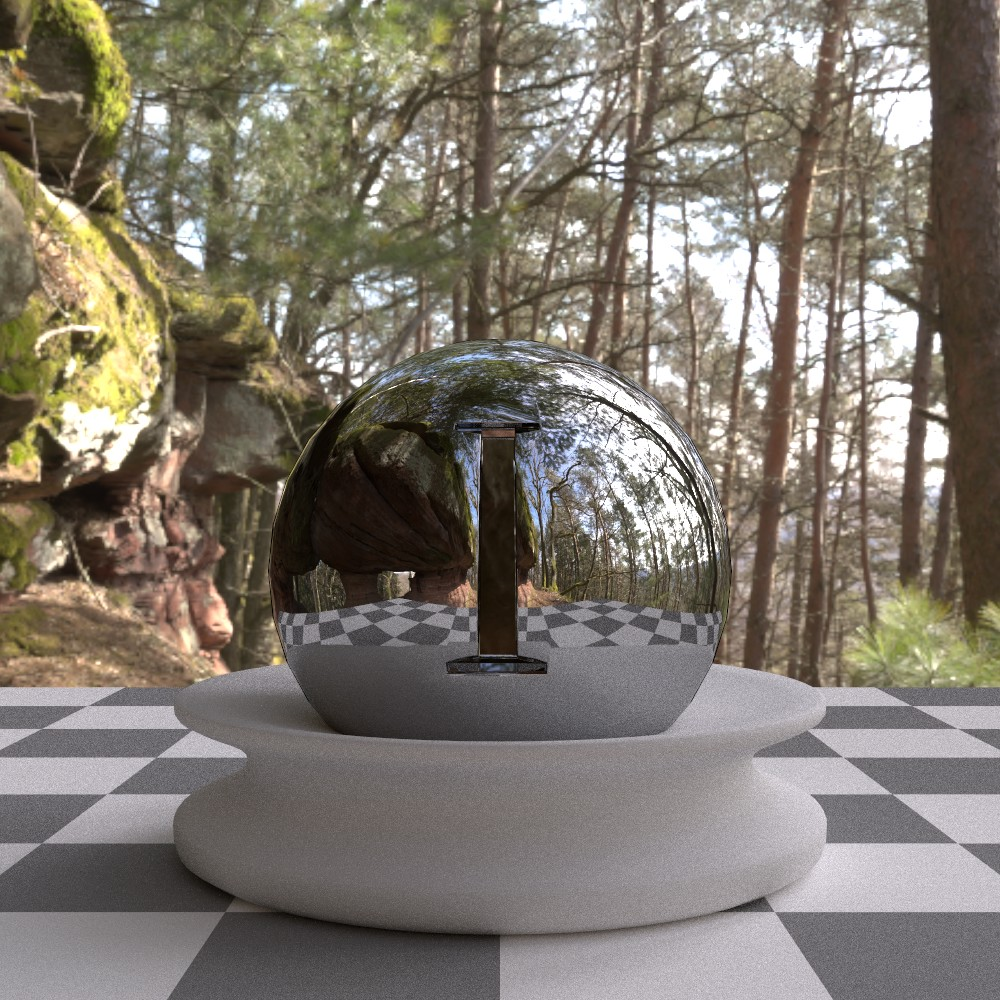
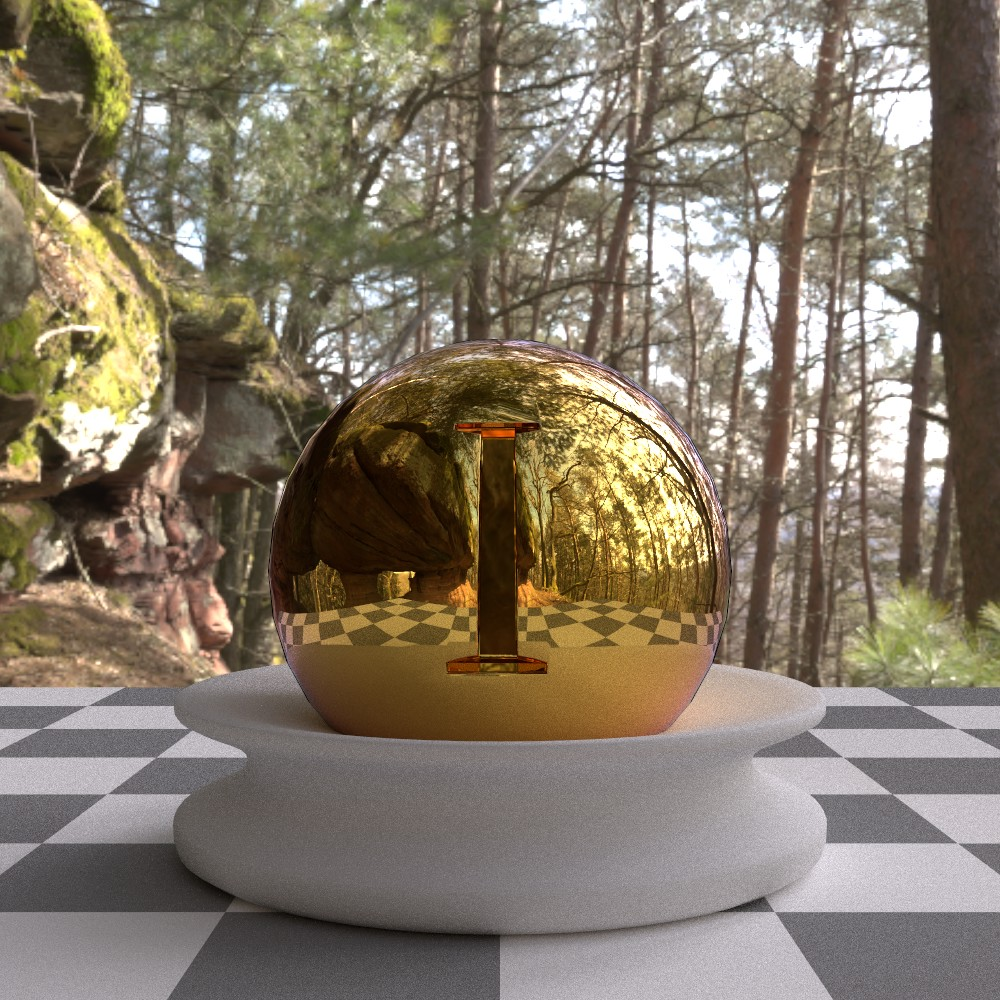
Fixed conductor & thin dielectric

Changed region(s): [[0.279, 0.341, 0.775, 0.744]]

diff --git a/src/backend/runtime/loader/LoaderBSDF.cpp b/src/backend/runtime/loader/LoaderBSDF.cpp
@@ -11,11 +11,13 @@
 
 namespace IG {
 
-constexpr float AIR_IOR            = 1.000277f;
-constexpr float GLASS_IOR          = 1.55f;
-constexpr float RUBBER_IOR         = 1.49f;
-constexpr float ETA_DEFAULT        = 0.63660f;
-constexpr float ABSORPTION_DEFAULT = 2.7834f;
+constexpr float AIR_IOR    = 1.000277f;
+constexpr float GLASS_IOR  = 1.55f;
+constexpr float RUBBER_IOR = 1.49f;
+
+// Gold from https://chris.hindefjord.se/resources/rgb-ior-metals/
+constexpr float ETA_DEFAULT[]        = { 0.18299f, 0.42108f, 1.37340f };
+constexpr float ABSORPTION_DEFAULT[] = { 3.4242f, 2.34590f, 1.77040f };
 
 static void setup_microfacet(const std::shared_ptr<Parser::Object>& bsdf, ShadingTree& tree)
 {
@@ -132,8 +134,8 @@ static void bsdf_conductor(std::ostream& stream, const std::string& name, const 
 {
     tree.beginClosure();
     tree.addColor("specular_reflectance", *bsdf, Vector3f::Ones());
-    tree.addNumber("eta", *bsdf, ETA_DEFAULT);
-    tree.addNumber("k", *bsdf, ABSORPTION_DEFAULT);
+    tree.addColor("eta", *bsdf, Vector3f(ETA_DEFAULT[0], ETA_DEFAULT[1], ETA_DEFAULT[2]));
+    tree.addColor("k", *bsdf, Vector3f(ABSORPTION_DEFAULT[0], ABSORPTION_DEFAULT[1], ABSORPTION_DEFAULT[2]));
 
     stream << tree.pullHeader()
            << "  let bsdf_" << ShaderUtils::escapeIdentifier(name) << " : BSDFShader = @|_ray, _hit, surf| make_conductor_bsdf(surf, "
@@ -148,8 +150,8 @@ static void bsdf_rough_conductor(std::ostream& stream, const std::string& name, 
 {
     tree.beginClosure();
     tree.addColor("specular_reflectance", *bsdf, Vector3f::Ones());
-    tree.addNumber("eta", *bsdf, ETA_DEFAULT);
-    tree.addNumber("k", *bsdf, ABSORPTION_DEFAULT);
+    tree.addColor("eta", *bsdf, Vector3f(ETA_DEFAULT[0], ETA_DEFAULT[1], ETA_DEFAULT[2]));
+    tree.addColor("k", *bsdf, Vector3f(ABSORPTION_DEFAULT[0], ABSORPTION_DEFAULT[1], ABSORPTION_DEFAULT[2]));
 
     setup_microfacet(bsdf, tree);
     stream << tree.pullHeader()

diff --git a/docs/src/scene/bsdfs.rst b/docs/src/scene/bsdfs.rst
@@ -182,8 +182,8 @@ Smooth conductor (:monosp:`conductor`)
 .. objectparameters::
 
  * - eta, k
-   - |number|
-   - none
+   - |color|
+   - ~ Gold
    - Real and imaginary components of the material's index of refraction.
  * - specular_reflectance
    - |color|
@@ -197,7 +197,7 @@ Smooth conductor (:monosp:`conductor`)
   :width: 90%
   :align: center
   
-  Conductor
+  Gold conductor
 
 .. subfigend::
   :width: 0.6
@@ -211,8 +211,8 @@ Rough conductor (:monosp:`roughconductor`)
 .. objectparameters::
 
  * - eta, k
-   - |number|
-   - none
+   - |color|
+   - ~ Gold
    - Real and imaginary components of the material's index of refraction.
  * - specular_reflectance
    - |color|
@@ -230,7 +230,7 @@ Rough conductor (:monosp:`roughconductor`)
   :width: 90%
   :align: center
   
-  Rough conductor
+  Rough gold conductor
 
 .. subfigend::
   :width: 0.6
@@ -332,7 +332,7 @@ Phong (:monosp:`phong`)
   :width: 0.6
   :label: fig-phong
 
-.. NOTE:: We do not recommend to use this bsdf for new projects as it disregards some PBR principles
+.. NOTE:: It is not recommended to use this bsdf for new projects as it disregards some PBR principles and is only included for legacy purposes.
 
 .. _bsdf-principled:
 
@@ -423,7 +423,7 @@ Blend (:monosp:`blend`)
 
  * - first, second
    - |bsdf|
-   - None
+   - *None*
    - TODO
  * - weight
    - |number|
@@ -451,7 +451,7 @@ Mask (:monosp:`mask`)
 
  * - bsdf
    - |bsdf|
-   - None
+   - *None*
    - TODO
  * - weight
    - |number|
@@ -483,7 +483,7 @@ Cutoff (:monosp:`cutoff`)
 
  * - bsdf
    - |bsdf|
-   - None
+   - *None*
    - TODO
  * - weight
    - |number|
@@ -538,7 +538,7 @@ Normal mapping (:monosp:`normalmap`)
 
  * - bsdf
    - |bsdf|
-   - None
+   - *None*
    - TODO
  * - map
    - |color|
@@ -570,11 +570,11 @@ Bump mapping (:monosp:`bumpmap`)
 
  * - bsdf
    - |bsdf|
-   - None
+   - *None*
    - TODO
  * - map
    - |texture|
-   - None
+   - *None*
    - A grayscale texture used for texture mapping.
  * - strength
    - |number|
@@ -602,7 +602,7 @@ Klems (:monosp:`klems`)
 
  * - filename
    - |string|
-   - None
+   - *None*
    - Path to a valid windows xml specifying a klems bsdf.
  * - base_color
    - |color|
@@ -620,7 +620,7 @@ TensorTree (:monosp:`tensortree`)
 
  * - filename
    - |string|
-   - None
+   - *None*
    - Path to a valid windows xml specifying a tensortree bsdf.
  * - base_color
    - |color|

diff --git a/README.md b/README.md
@@ -32,6 +32,7 @@ Have a look at [CPM](https://github.com/cpm-cmake/CPM.cmake) for more informatio
 
  - imgui <https://github.com/ocornut/imgui>
  - imgui-markdown <https://github.com/juliettef/imgui_markdown>
+ - PExpr <https://github.com/PearCoding/PExpr>
  - pugixml <https://github.com/zeux/pugixml>
  - RapidJSON <https://rapidjson.org/>
  - Simple Tag Preprocessor <https://github.com/PearCoding/stpp>
@@ -94,6 +95,8 @@ All available components are documented in the `docs/` folder. A documentation c
     cmake --build . -t ig_documentation
 
 from the `build/` folder.
+
+A quite recent version of the above documentation is available at: https://pearcoding.github.io/Ignis/ 
 
 ## Scene description
 

diff --git a/docs/src/scene/textures.rst b/docs/src/scene/textures.rst
@@ -142,7 +142,7 @@ Noise (:monosp:`noise`)
   :width: 0.6
   :label: fig-noise
 
-PNoise (:monosp:`pnoise`)
+Interpolated Noise (:monosp:`pnoise`)
 -------------------------
 
 Original noise used in legacy perlin implementation.
@@ -327,7 +327,7 @@ E.g., `color_tint` will be called `tint` inside the expression.
 
  * - expr
    - |string|
-   - None
+   - *None*
    - A :ref:`PExpr <PExpr>` based expression
 
 .. subfigstart::
@@ -349,7 +349,7 @@ Texture transform (:monosp:`transform`)
 
  * - texture
    - |color|
-   - None
+   - *None*
    - The texture the transform is applied to.
  * - transform
    - |transform|
